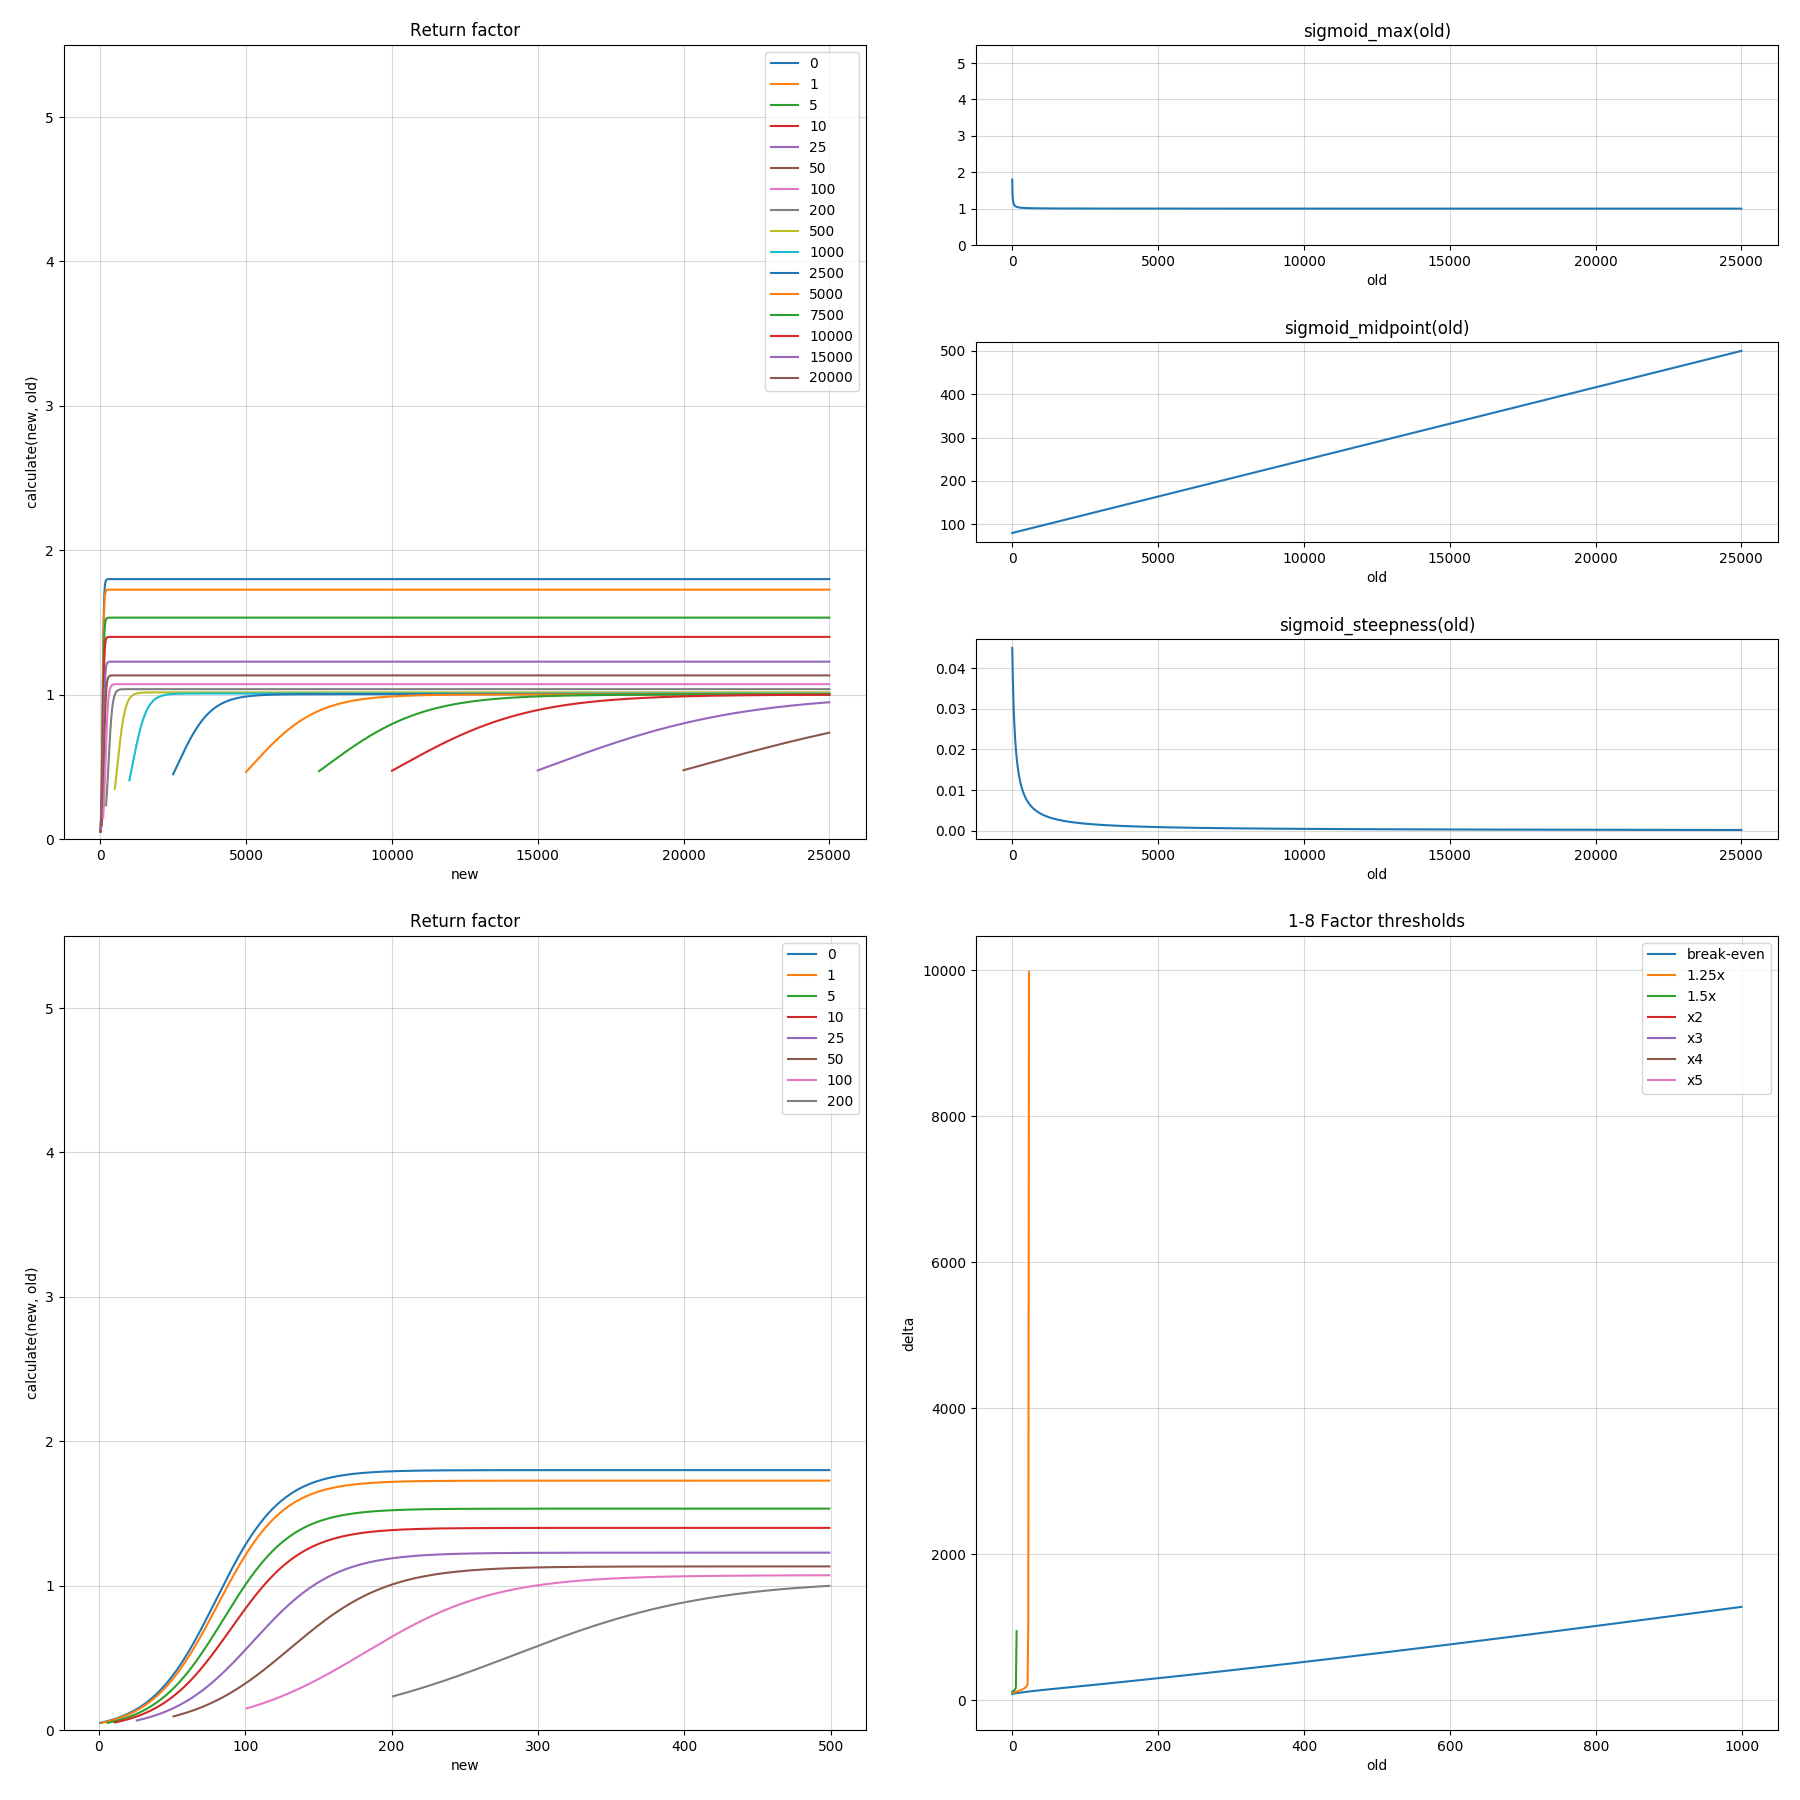
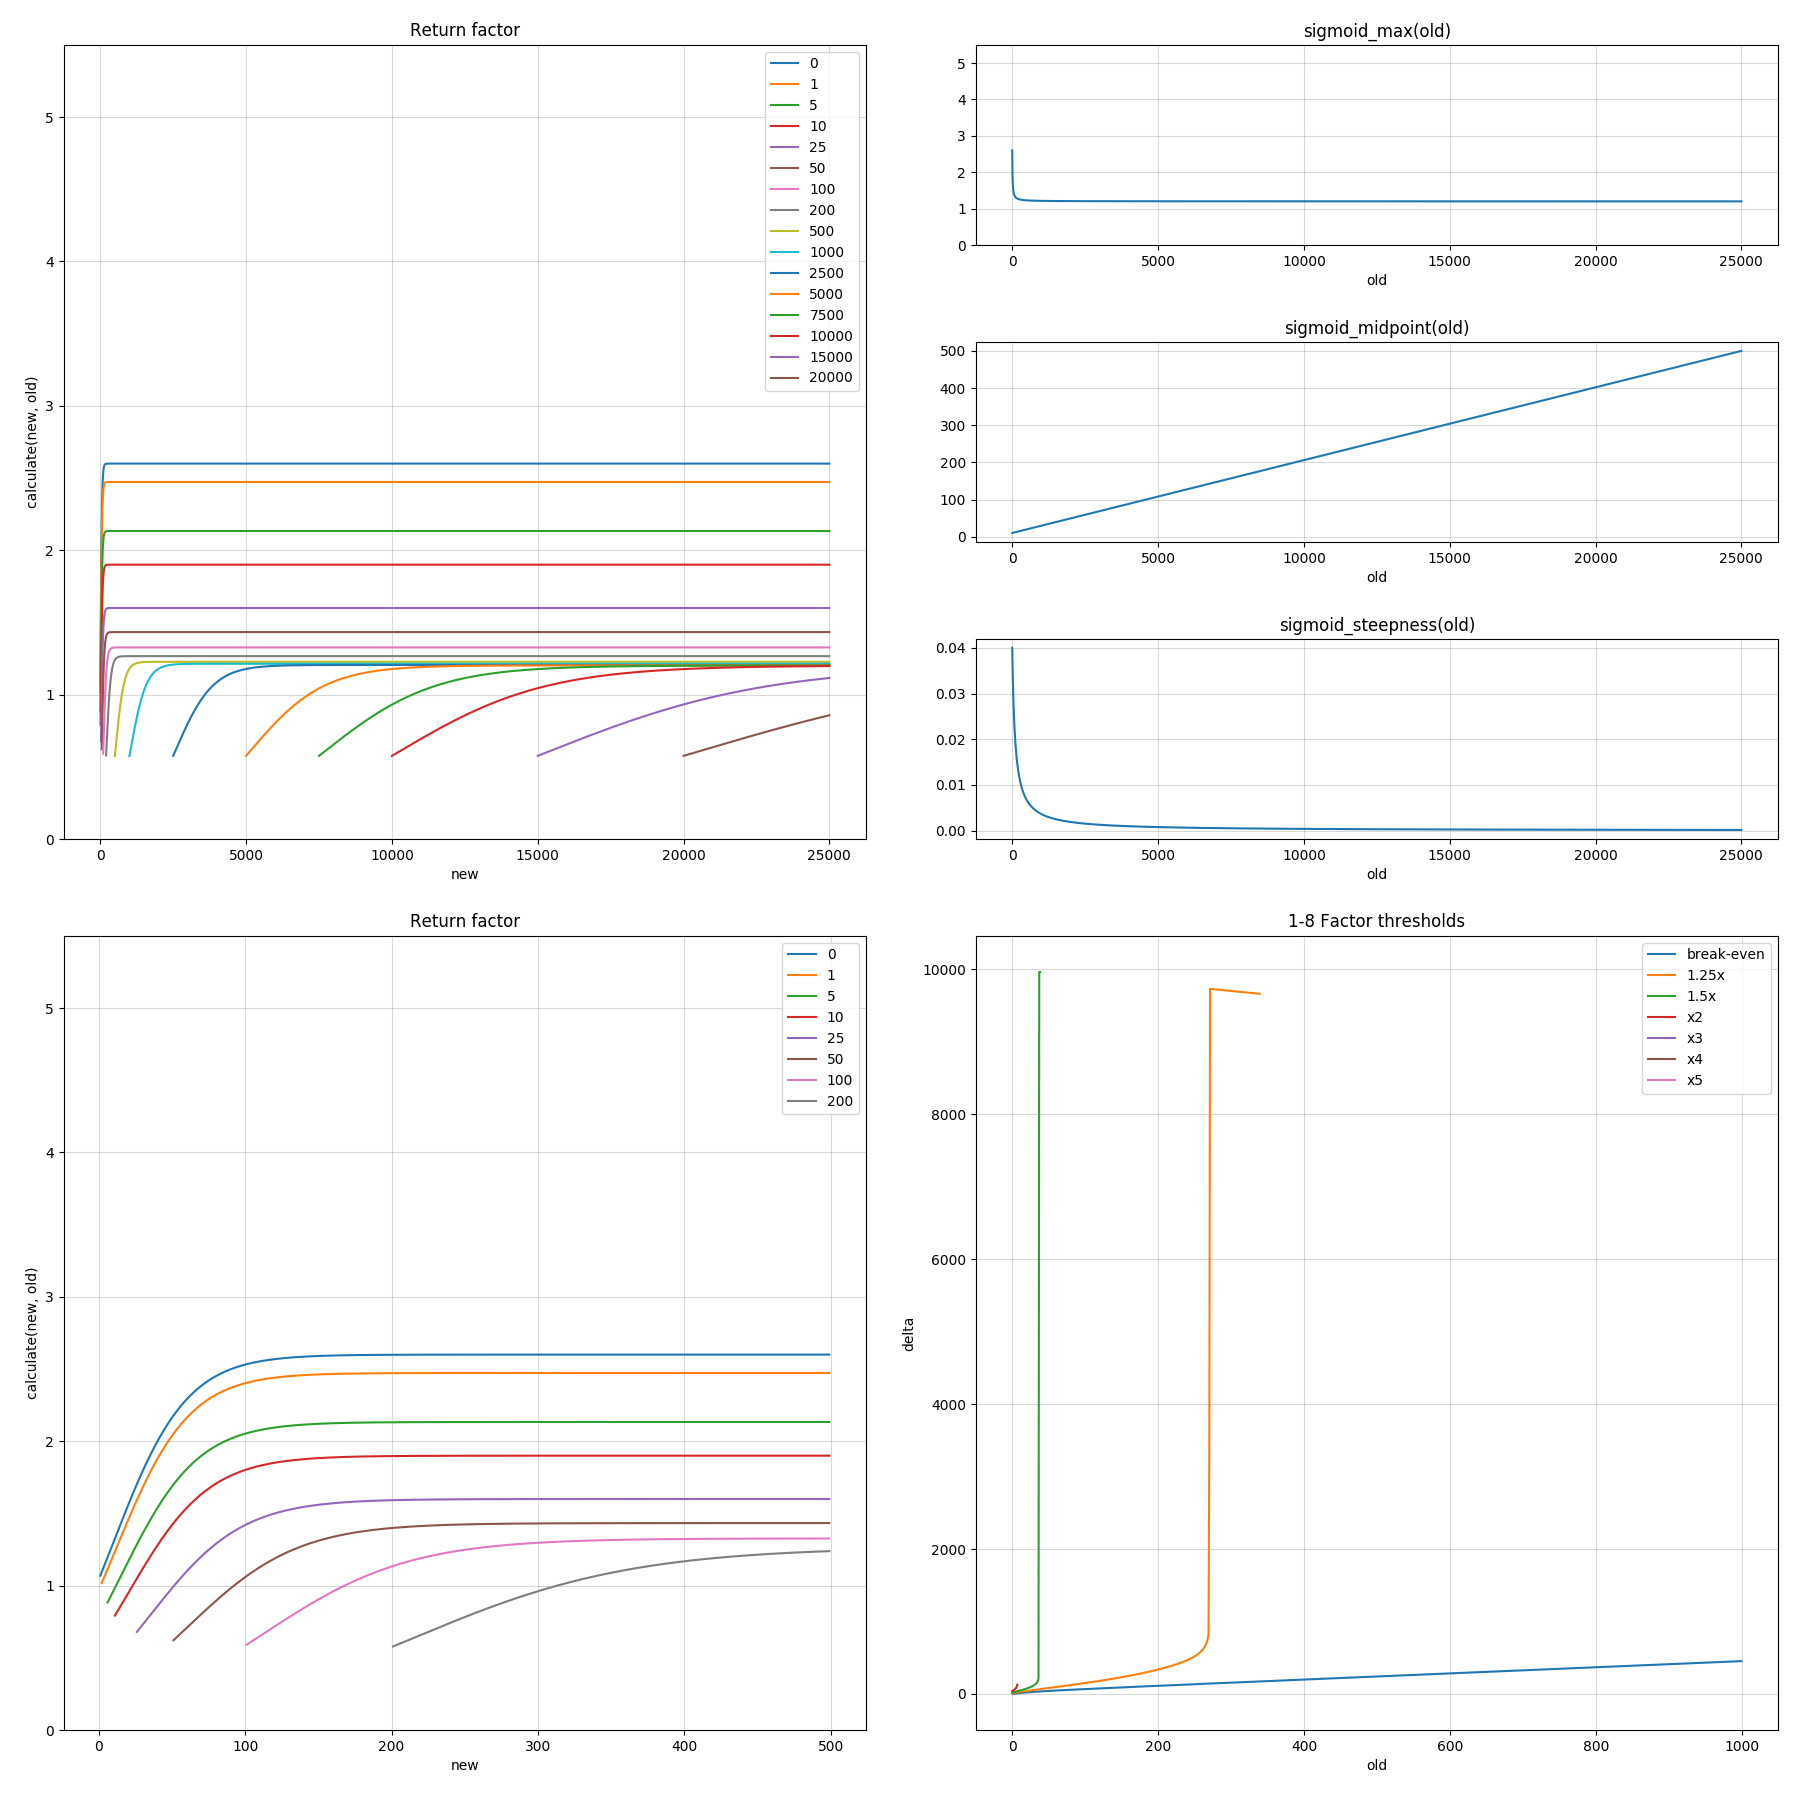
Godspeed. Made the formula more casual

diff --git a/src/formula.py b/src/formula.py
@@ -39,10 +39,10 @@ def sigmoid(x, maxvalue, midpoint, steepness):
     return y
 
 def sigmoid_max(old):
-    return 1.2 + 1.9 / ((old / 10) + 1)
+    return 1.2 + 1.4 / ((old / 10) + 1)
 
 def sigmoid_midpoint(old):
-    sig_mp_0 = 50
+    sig_mp_0 = 10
     sig_mp_1 = 500
     return linear_interpolate(old, 0, 25000, sig_mp_0, sig_mp_1)
 
